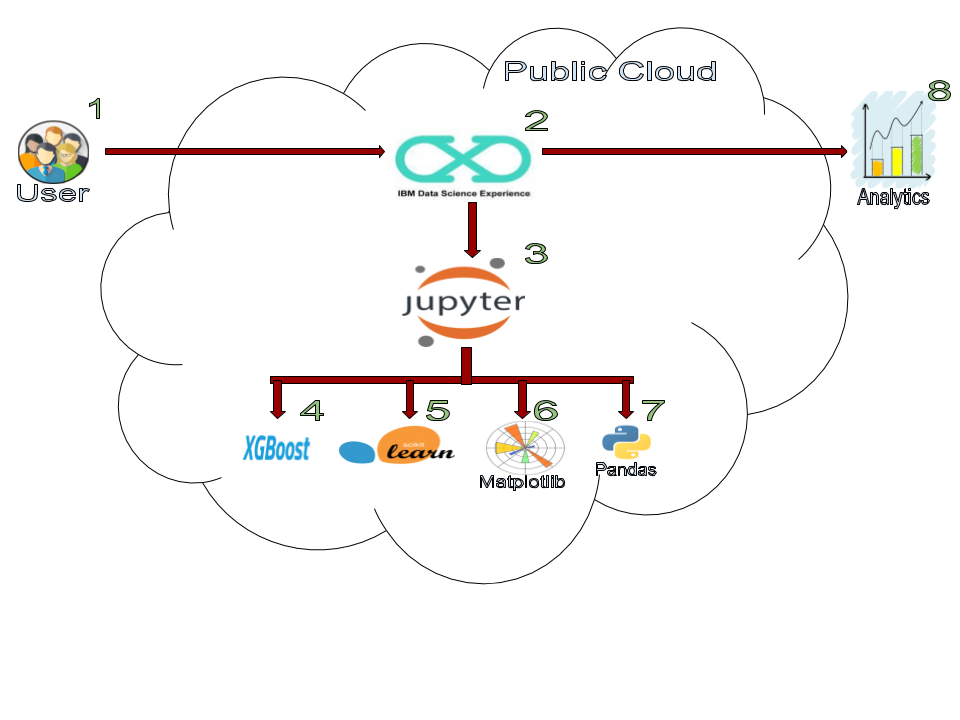
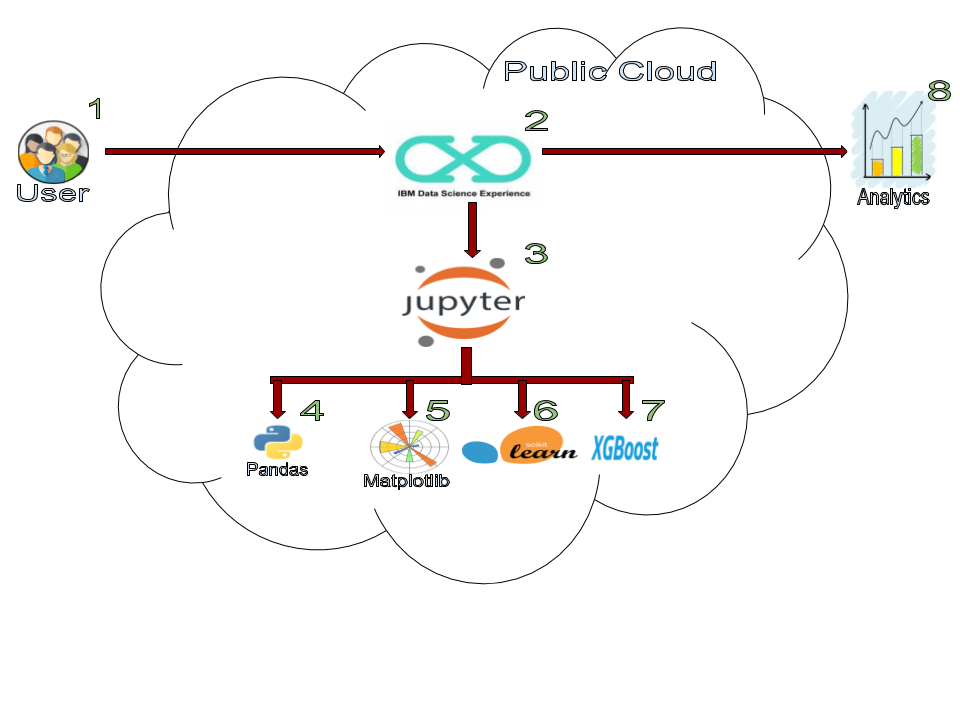
Modify architecture diagram and README.md to have flow diagram in the same order as it's usage

Changed region(s): [[0.25, 0.5806, 0.6875, 0.7028]]

diff --git a/README.md b/README.md
@@ -27,10 +27,10 @@ This Code Pattern will walk the user through the following conceptual steps:
 1. Log into IBM Watson Studio service.
 2. Upload the data as a data asset into Watson Studio.
 3. Start a notebook in Watson Studio and input the data asset previously created.
-4. Use XGBoost to create and train our ML model.
-5. Use Scikit Learn to create our ML pipeline to prep our data to be fed into XGBoost. 
-6. Use Matplotlib and it's higher level package seaborn for creating various visualizations.
-7. Pandas are used to read the data file into a dataframe for initial data exploration.
+4. Pandas are used to read the data file into a dataframe for initial data exploration.
+5. Use Matplotlib and it's higher level package seaborn for creating various visualizations.
+6. Use Scikit Learn to create our ML pipeline to prep our data to be fed into XGBoost. 
+7. Use XGBoost to create and train our ML model.
 8. Evaulate their predictive performance.
 
 ## Included components
